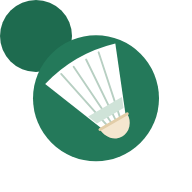
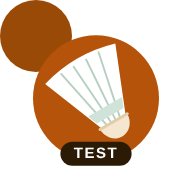
Add files via upload

diff --git a/app.js b/app.js
@@ -10,12 +10,40 @@
   'use strict';
 
   var C = window.BADMINTON_CONFIG || {};
-  var PAGE_KEY = 'bm_page_v1';
-  var ACCENT = '#1E6B4F';
+  // Saved copies belong to one sheet link, so a different link never shows another version's page.
+  var SHEET_TAG = String(C.appsScriptUrl || '').replace(/^https?:\/\//, '').slice(-40);
+  var PAGE_KEY = 'bm_page_v2|' + SHEET_TAG;
+  var STATE_KEY = 'bm_state_v1|' + SHEET_TAG;
+  var FRESH_MS = 30000; // sessions saved this recently count as up to date
 
   function lsGet(k) { try { return localStorage.getItem(k); } catch (e) { return null; } }
   function lsSet(k, v) { try { if (v == null) localStorage.removeItem(k); else localStorage.setItem(k, v); } catch (e) {} }
   function abs(path) { return new URL(path, location.href).href; }
+  function meta(name, fallback) {
+    var m = document.querySelector('meta[name="' + name + '"]');
+    return (m && m.getAttribute('content')) || fallback;
+  }
+  // The name and colour come from index.html, so the test and live apps can differ
+  var APP_NAME = meta('apple-mobile-web-app-title', 'Badminton');
+  var THEME = meta('theme-color', '#1E6B4F');
+
+  // ---------- Saved sessions, so the page can show something straight away ----------
+  function saveState(state) {
+    if (!state || typeof state !== 'object') return;
+    try { lsSet(STATE_KEY, JSON.stringify({ at: Date.now(), state: state })); } catch (e) {}
+  }
+  function savedState() {
+    try {
+      var s = JSON.parse(lsGet(STATE_KEY) || 'null');
+      if (!s || !s.state) return null;
+      var st = JSON.parse(JSON.stringify(s.state));
+      // Move the page's clock on to now, so sessions that have since finished show as finished
+      if (typeof st.now === 'number') st.now += Date.now() - s.at;
+      return { age: Date.now() - s.at, state: st };
+    } catch (e) { return null; }
+  }
+  // Drop the saved copies left by the first version of the app
+  lsSet('bm_page_v1', null);
 
   // ---------- Talking to the sheet ----------
   function call(fn, args) {
@@ -63,7 +91,15 @@
     }
     function fetchPage() {
       splashMsg('Loading sign-ups…');
-      call('page').then(function (html) {
+      // One trip for the page and the sessions together.
+      // Falls back to the page alone if the sheet's App.gs is the older version.
+      call('boot').then(function (res) {
+        if (res && res.state) saveState(res.state);
+        return res && res.page;
+      }, function (err) {
+        if (/Unknown request/.test(String(err && err.message))) return call('page');
+        throw err;
+      }).then(function (html) {
         if (!html || typeof html !== 'string') throw new Error('No page came back.');
         lsSet(PAGE_KEY, html);
         show(html);
@@ -78,14 +114,17 @@
     else setTimeout(start, 0);
   }
 
+  function esc(s) { return String(s).replace(/&/g, '&amp;').replace(/</g, '&lt;').replace(/>/g, '&gt;'); }
+  function escAttr(s) { return String(s).replace(/&/g, '&amp;').replace(/"/g, '&quot;').replace(/</g, '&lt;'); }
+
   function headExtras() {
     return [
       '<meta name="bm-runtime" content="1">',
       '<meta name="viewport" content="width=device-width, initial-scale=1, viewport-fit=cover">',
-      '<meta name="theme-color" content="' + ACCENT + '">',
+      '<meta name="theme-color" content="' + escAttr(THEME) + '">',
       '<meta name="apple-mobile-web-app-capable" content="yes">',
       '<meta name="mobile-web-app-capable" content="yes">',
-      '<meta name="apple-mobile-web-app-title" content="Badminton">',
+      '<meta name="apple-mobile-web-app-title" content="' + escAttr(APP_NAME) + '">',
       '<meta name="apple-mobile-web-app-status-bar-style" content="black-translucent">',
       '<link rel="manifest" href="' + abs('manifest.webmanifest') + '">',
       '<link rel="apple-touch-icon" href="' + abs('apple-touch-icon.png') + '">',
@@ -123,6 +162,43 @@
   // on Google's own site. This stands in for it and sends the same calls
   // to the sheet over the web instead.
   function installGoogleShim() {
+    var firstLoad = true;
+
+    // Calls without an admin PIN return the same public view for everyone,
+    // so those are the only ones saved on the phone.
+    function isPublic(fn, args) {
+      if (fn === 'apiGetState') return !args[0];
+      if (fn === 'apiAction') return !(args[0] && args[0].pin);
+      return false;
+    }
+
+    function send(fn, args, ok, fail, userObj) {
+      // Opening the app: show the saved sessions straight away, then the latest ones.
+      if (fn === 'apiGetState' && firstLoad && isPublic(fn, args)) {
+        firstLoad = false;
+        var saved = savedState();
+        if (saved) {
+          setTimeout(function () { if (ok) ok(saved.state, userObj); }, 0);
+          if (saved.age < FRESH_MS) return; // just fetched with the page, already up to date
+          syncPill(true);
+          call(fn, args).then(function (res) {
+            syncPill(false);
+            saveState(res);
+            if (ok) ok(res, userObj);
+          }, function (err) {
+            syncPill(false);
+            if (fail) fail(err, userObj);
+          });
+          return;
+        }
+      }
+      if (fn === 'apiGetState') firstLoad = false;
+      call(fn, args).then(function (res) {
+        if (isPublic(fn, args)) saveState(fn === 'apiAction' ? res && res.state : res);
+        if (ok) ok(res, userObj);
+      }, function (err) { if (fail) fail(err, userObj); });
+    }
+
     function runner(ok, fail, userObj) {
       return new Proxy({}, {
         get: function (_, prop) {
@@ -131,11 +207,7 @@
           if (prop === 'withUserObject') return function (o) { return runner(ok, fail, o); };
           if (typeof prop !== 'string') return undefined;
           return function () {
-            var args = Array.prototype.slice.call(arguments);
-            call(prop, args).then(
-              function (res) { if (ok) ok(res, userObj); },
-              function (err) { if (fail) fail(err, userObj); }
-            );
+            send(prop, Array.prototype.slice.call(arguments), ok, fail, userObj);
           };
         }
       });
@@ -164,12 +236,28 @@
   }
 
   // Get the latest version of the page in the background, ready for next time.
+  // Waits a few seconds so it doesn't hold up the sessions loading.
   function refreshCachedPage() {
     setTimeout(function () {
       call('page').then(function (html) {
         if (html && typeof html === 'string' && html !== lsGet(PAGE_KEY)) lsSet(PAGE_KEY, html);
       }).catch(function () {});
-    }, 4000);
+    }, 8000);
+  }
+
+  // A small "Updating…" label while saved sessions are on screen
+  var pill = null, pillTimer = null;
+  function syncPill(on) {
+    clearTimeout(pillTimer);
+    if (!on) { if (pill && pill.parentNode) pill.parentNode.removeChild(pill); pill = null; return; }
+    pillTimer = setTimeout(function () { // only if it's taking a moment
+      if (pill || !document.body) return;
+      pill = document.createElement('div');
+      pill.className = 'bm-pill';
+      pill.setAttribute('role', 'status');
+      pill.textContent = 'Updating…';
+      document.body.appendChild(pill);
+    }, 400);
   }
 
   // ---------- Install prompts and notifications ----------
@@ -256,8 +344,8 @@
     shownThisVisit = true;
     var copy = {
       'notify': { icon: ICON_BELL, title: 'Get notified when you’re off a waitlist', body: 'We’ll also tell you when next month’s sessions open.', yes: 'Turn on', snooze: 'notify' },
-      'install': { icon: ICON_ADD, title: 'Add Badminton to your home screen', body: 'Opens full screen, like an app. Optional.', yes: 'Install', snooze: 'install' },
-      'install-ios': { icon: ICON_ADD, title: 'Add Badminton to your home screen', body: 'In Safari, tap ' + ICON_SHARE + ' Share, then <b>Add to Home Screen</b>. Optional' + (C.oneSignalAppId ? ', but it’s how you get notifications on iPhone.' : '.'), yes: '', snooze: 'install' }
+      'install': { icon: ICON_ADD, title: 'Add ' + esc(APP_NAME) + ' to your home screen', body: 'Opens full screen, like an app. Optional.', yes: 'Install', snooze: 'install' },
+      'install-ios': { icon: ICON_ADD, title: 'Add ' + esc(APP_NAME) + ' to your home screen', body: 'In Safari, tap ' + ICON_SHARE + ' Share, then <b>Add to Home Screen</b>. Optional' + (C.oneSignalAppId ? ', but it’s how you get notifications on iPhone.' : '.'), yes: '', snooze: 'install' }
     }[which];
 
     bar = document.createElement('div');

diff --git a/index.html b/index.html
@@ -3,18 +3,18 @@
 <head>
 <meta charset="utf-8">
 <meta name="viewport" content="width=device-width, initial-scale=1, viewport-fit=cover">
-<title>Badminton sign-ups</title>
+<title>TEST Badminton sign-ups</title>
 <meta name="description" content="Sign up for the group's badminton sessions.">
-<meta name="theme-color" content="#1E6B4F">
+<meta name="theme-color" content="#9A4A07">
 <meta name="apple-mobile-web-app-capable" content="yes">
 <meta name="mobile-web-app-capable" content="yes">
-<meta name="apple-mobile-web-app-title" content="Badminton">
+<meta name="apple-mobile-web-app-title" content="TEST Badminton">
 <meta name="apple-mobile-web-app-status-bar-style" content="black-translucent">
 <link rel="manifest" href="manifest.webmanifest">
 <link rel="apple-touch-icon" href="apple-touch-icon.png">
 <link rel="icon" type="image/png" href="icon-192.png">
 <style>
-  html, body { margin: 0; height: 100%; background: #1E6B4F; }
+  html, body { margin: 0; height: 100%; background: #9A4A07; }
   .splash {
     min-height: 100%;
     display: flex; flex-direction: column; align-items: center; justify-content: center; gap: 18px;
@@ -26,7 +26,7 @@
   #splash-msg { max-width: 300px; min-height: 2.9em; }
   #splash-msg button {
     margin-top: 12px; min-height: 44px; padding: 0 18px; border-radius: 10px;
-    background: #fff; color: #1E6B4F; border: 0; font: 600 16px system-ui, -apple-system, sans-serif; cursor: pointer;
+    background: #fff; color: #9A4A07; border: 0; font: 600 16px system-ui, -apple-system, sans-serif; cursor: pointer;
   }
 </style>
 <script src="config.js"></script>
@@ -35,7 +35,7 @@
 <body>
   <div class="splash">
     <img src="icon-192.png" alt="">
-    <h1>Badminton</h1>
+    <h1>Badminton TEST</h1>
     <div id="splash-msg" role="status">Loading sign-ups…</div>
   </div>
   <noscript><p style="color:#fff;text-align:center">This app needs JavaScript turned on.</p></noscript>

diff --git a/app.css b/app.css
@@ -62,5 +62,20 @@ body {
 .bm-btn:focus-visible { outline: 3px solid #93C5AE; outline-offset: 2px; }
 .bm-toast .bm-bar-body { color: #17201B; margin: 0; }
 
+/* "Updating…" label shown while saved sessions are on screen */
+.bm-pill {
+  position: fixed;
+  top: calc(8px + env(safe-area-inset-top, 0px));
+  right: 12px;
+  z-index: 45;
+  padding: 5px 11px;
+  border-radius: 999px;
+  background: rgba(255, 255, 255, .94);
+  color: #17201B;
+  box-shadow: 0 2px 8px rgba(23, 32, 27, .2);
+  font: 600 13px/1.2 Inter, system-ui, -apple-system, sans-serif;
+  pointer-events: none;
+}
+
 @keyframes bm-up { from { transform: translateY(16px); opacity: 0; } to { transform: none; opacity: 1; } }
 @media (prefers-reduced-motion: reduce) { .bm-bar { animation: none; } }

diff --git a/sw.js b/sw.js
@@ -8,7 +8,7 @@ try {
   // Offline or blocked: the app still works, just without notifications for now.
 }
 
-var CACHE = 'bm-shell-v1';
+var CACHE = 'bm-shell-v2';
 var SHELL = ['./', 'index.html', 'app.js', 'app.css', 'config.js', 'manifest.webmanifest',
   'icon-192.png', 'icon-512.png', 'icon-maskable-512.png', 'apple-touch-icon.png'];
 
